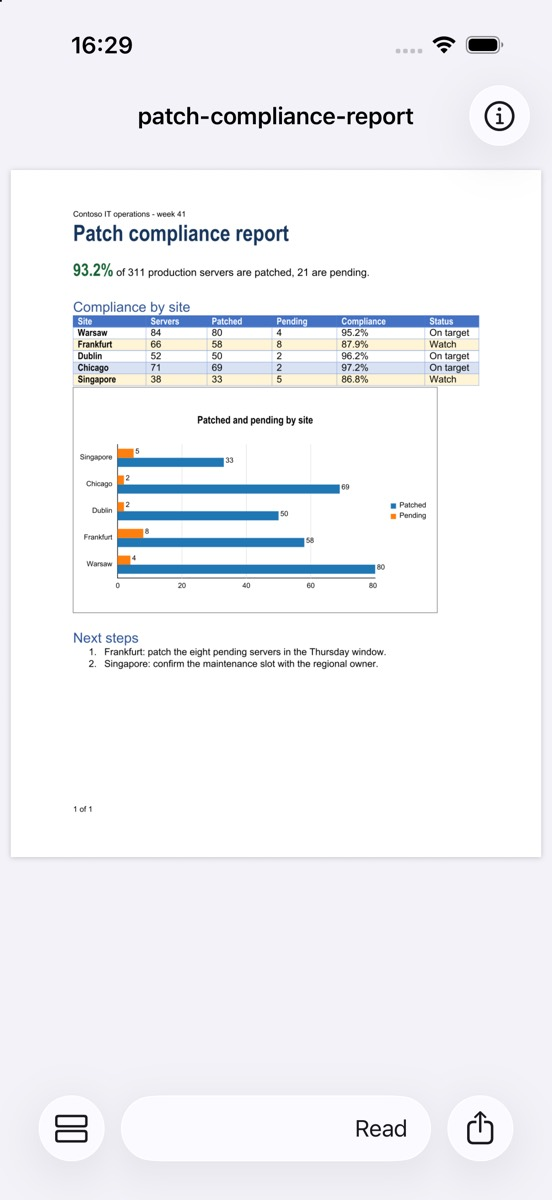
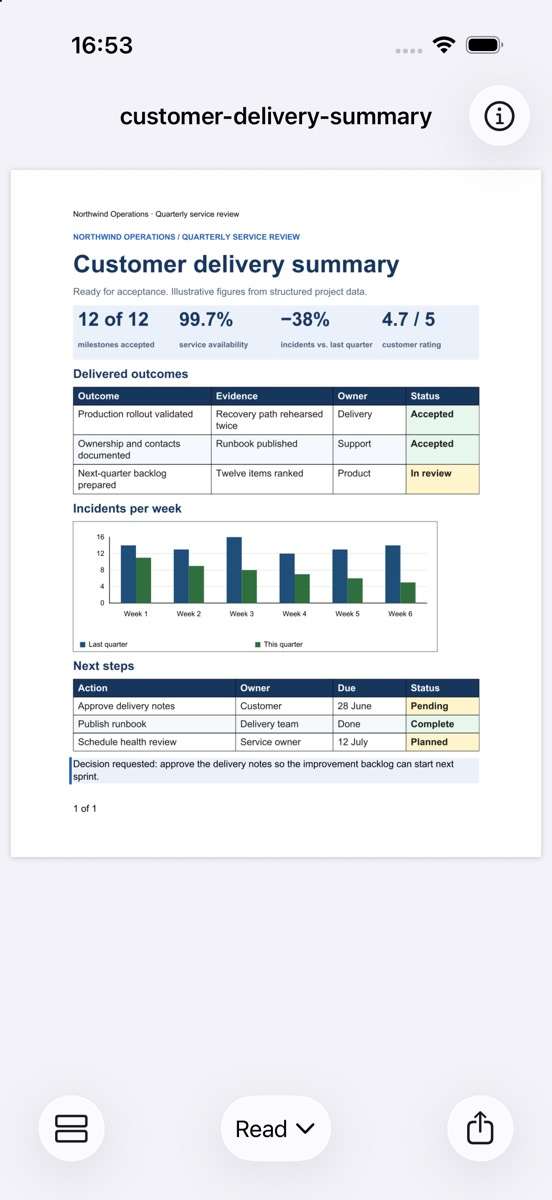
Studio: finish the compact layout and undo on iPad and iPhone
The Pages task shows Undo and Redo in the navigation bar on iPad and iPhone,
acting through the window's undo manager. The task menu keeps its natural
width with the task name and a chevron, and the compact bottom bar separates
Pages, the task menu and Share into their own glass controls. The inspector
opens as a half-height sheet with a grabber in compact width.

Verified on the iPhone simulator: scrolling with the page indicator, the page
list sheet, switching tasks, rotating, undoing and redoing, and the inspector
sheet.

diff --git a/Apple/OfficeIMOStudio/Shared/Views/DocumentToolbar.swift b/Apple/OfficeIMOStudio/Shared/Views/DocumentToolbar.swift
@@ -32,23 +32,25 @@ struct DocumentToolbar: ToolbarContent {
             inspectorToggle
         }
         #else
+        if session.task == .pages {
+            ToolbarItemGroup(placement: .topBarTrailing) { undoRedo }
+        }
         if isCompact {
             ToolbarItem(placement: .topBarTrailing) { inspectorToggle }
+            // Separate items with flexible spacers, so each is its own glass control in the bottom bar.
             if session.task == .pages {
-                ToolbarItemGroup(placement: .bottomBar) {
-                    taskMenu
-                    Spacer()
-                    pageActions
-                }
+                ToolbarItem(placement: .bottomBar) { taskMenu }
+                ToolbarSpacer(.flexible, placement: .bottomBar)
+                ToolbarItemGroup(placement: .bottomBar) { pageActions }
             } else {
-                ToolbarItemGroup(placement: .bottomBar) {
+                ToolbarItem(placement: .bottomBar) {
                     Button("Pages", systemImage: "rectangle.grid.1x2") { session.isPageListShown = true }
                         .disabled(!session.isReady)
-                    Spacer()
-                    taskMenu
-                    Spacer()
-                    share
                 }
+                ToolbarSpacer(.flexible, placement: .bottomBar)
+                ToolbarItem(placement: .bottomBar) { taskMenu }
+                ToolbarSpacer(.flexible, placement: .bottomBar)
+                ToolbarItem(placement: .bottomBar) { share }
             }
         } else {
             ToolbarItemGroup(placement: .topBarTrailing) {
@@ -66,6 +68,17 @@ struct DocumentToolbar: ToolbarContent {
         #endif
     }
 
+    #if os(iOS)
+    /// Undo and Redo while editing, as Apple's editing apps show them; they act through the window's undo manager,
+    /// which also serves the keyboard shortcuts and the three-finger gestures.
+    @ViewBuilder private var undoRedo: some View {
+        Button("Undo", systemImage: "arrow.uturn.backward") { session.undoManager?.undo() }
+            .disabled(session.facts?.canUndo != true || session.isWorking)
+        Button("Redo", systemImage: "arrow.uturn.forward") { session.undoManager?.redo() }
+            .disabled(session.facts?.canRedo != true || session.isWorking)
+    }
+    #endif
+
     /// Rotation for the selected pages, shown while the Pages task is open.
     @ViewBuilder private var pageActions: some View {
         if session.task == .pages {
@@ -76,14 +89,24 @@ struct DocumentToolbar: ToolbarContent {
         }
     }
 
+    /// The task menu: the current task's name, opening the list of tasks.
     private var taskMenu: some View {
-        Picker(selection: $session.task) {
-            ForEach(StudioTask.allCases) { Label($0.title, systemImage: $0.systemImage).tag($0) }
+        Menu {
+            Picker("Task", selection: $session.task) {
+                ForEach(StudioTask.allCases) { Label($0.title, systemImage: $0.systemImage).tag($0) }
+            }
+            .pickerStyle(.inline)
         } label: {
-            Label(session.task.title, systemImage: session.task.systemImage)
+            HStack(spacing: 4) {
+                Text(session.task.title)
+                Image(systemName: "chevron.down")
+                    .font(.caption.weight(.semibold))
+                    .accessibilityHidden(true)
+            }
+            .accessibilityLabel(Text("Task: \(Text(session.task.title))"))
         }
-        .pickerStyle(.menu)
-        .labelStyle(.titleOnly)
+        .menuIndicator(.hidden)
+        .fixedSize()
         .disabled(!session.isReady)
     }
 

diff --git a/Apple/OfficeIMOStudio/Shared/Views/DocumentWindow.swift b/Apple/OfficeIMOStudio/Shared/Views/DocumentWindow.swift
@@ -80,6 +80,10 @@ struct DocumentWindow: View {
             .inspector(isPresented: $session.isInspectorShown) {
                 DocumentInspector(session: session)
                     .inspectorColumnWidth(min: 240, ideal: 280, max: 360)
+                    // In compact width the inspector is a sheet over the page.
+                    .presentationDetents([.medium, .large])
+                    .presentationDragIndicator(.visible)
+                    .presentationBackgroundInteraction(.enabled(upThrough: .medium))
             }
             .toolbar { DocumentToolbar(session: session, fileURL: fileURL, isCompact: isCompact) }
             .modifier(OptionalTitle(title: title))

diff --git a/Docs/officeimo.studio-apple-native-design.md b/Docs/officeimo.studio-apple-native-design.md
@@ -86,14 +86,15 @@ Pages render through the engine's pixel rectangles, described under Rendering, s
 
 ### Delivered screens
 
-The first slice opens PDFs as documents and offers the Read and Pages tasks, on the Mac, iPad and iPhone. Pages show at the width of the widest page and zoom with pinch, double tap, the trackpad and View ▸ Zoom; the page list, inspector, rotation with undo and sharing work in every layout. **New Blank PDF** creates a one-page document at the region's paper size. The iPad and iPhone screens were captured through the development launch harness described in the [app README](../Apple/OfficeIMOStudio/README.md#development-harness), because the simulator's document browser cannot open files on this build host.
+The first slice opens PDFs as documents and offers the Read and Pages tasks, on the Mac, iPad and iPhone. Pages show at the width of the widest page and zoom with pinch, double tap, the trackpad and View ▸ Zoom; the page list, inspector, rotation with undo and sharing work in every layout. On iPad and iPhone the Pages task shows Undo and Redo in the navigation bar, as Apple's editing apps do; they act through the window's undo manager, as the Edit menu and the undo gestures do. **New Blank PDF** creates a one-page document at the region's paper size. The iPad and iPhone screens were captured through the development launch harness described in the [app README](../Apple/OfficeIMOStudio/README.md#development-harness), because the simulator's document browser cannot open files on this build host.
 
 | Screen | Image |
 | --- | --- |
 | Mac, Read: the system sidebar, the window toolbar with the task control, zoom, Share and the inspector | ![Mac document window in the Read task](Images/StudioApple/mac-read.jpg) |
 | iPad, Read: sidebar, page and inspector side by side | ![iPad document with the page list and the inspector](Images/StudioApple/ipad-read.jpg) |
 | iPad, Pages: three pages selected, with Rotate Left and Rotate Right in the bottom bar; the page list steps aside | ![iPad Pages task with three pages selected](Images/StudioApple/ipad-pages.jpg) |
-| iPhone, Read: the page fills the width; Pages, the task menu and Share sit in the bottom bar | ![iPhone document in the Read task](Images/StudioApple/iphone-read.jpg) |
+| iPhone, Read: the page fills the width; Pages, the task menu and Share are separate controls in the bottom bar | ![iPhone document in the Read task](Images/StudioApple/iphone-read.jpg) |
+| iPhone, page list: a sheet at half height over the page it controls; choosing a page shows it behind the sheet | ![iPhone page list sheet over page 10](Images/StudioApple/iphone-page-list.jpg) |
 
 ### Features on each platform
 
